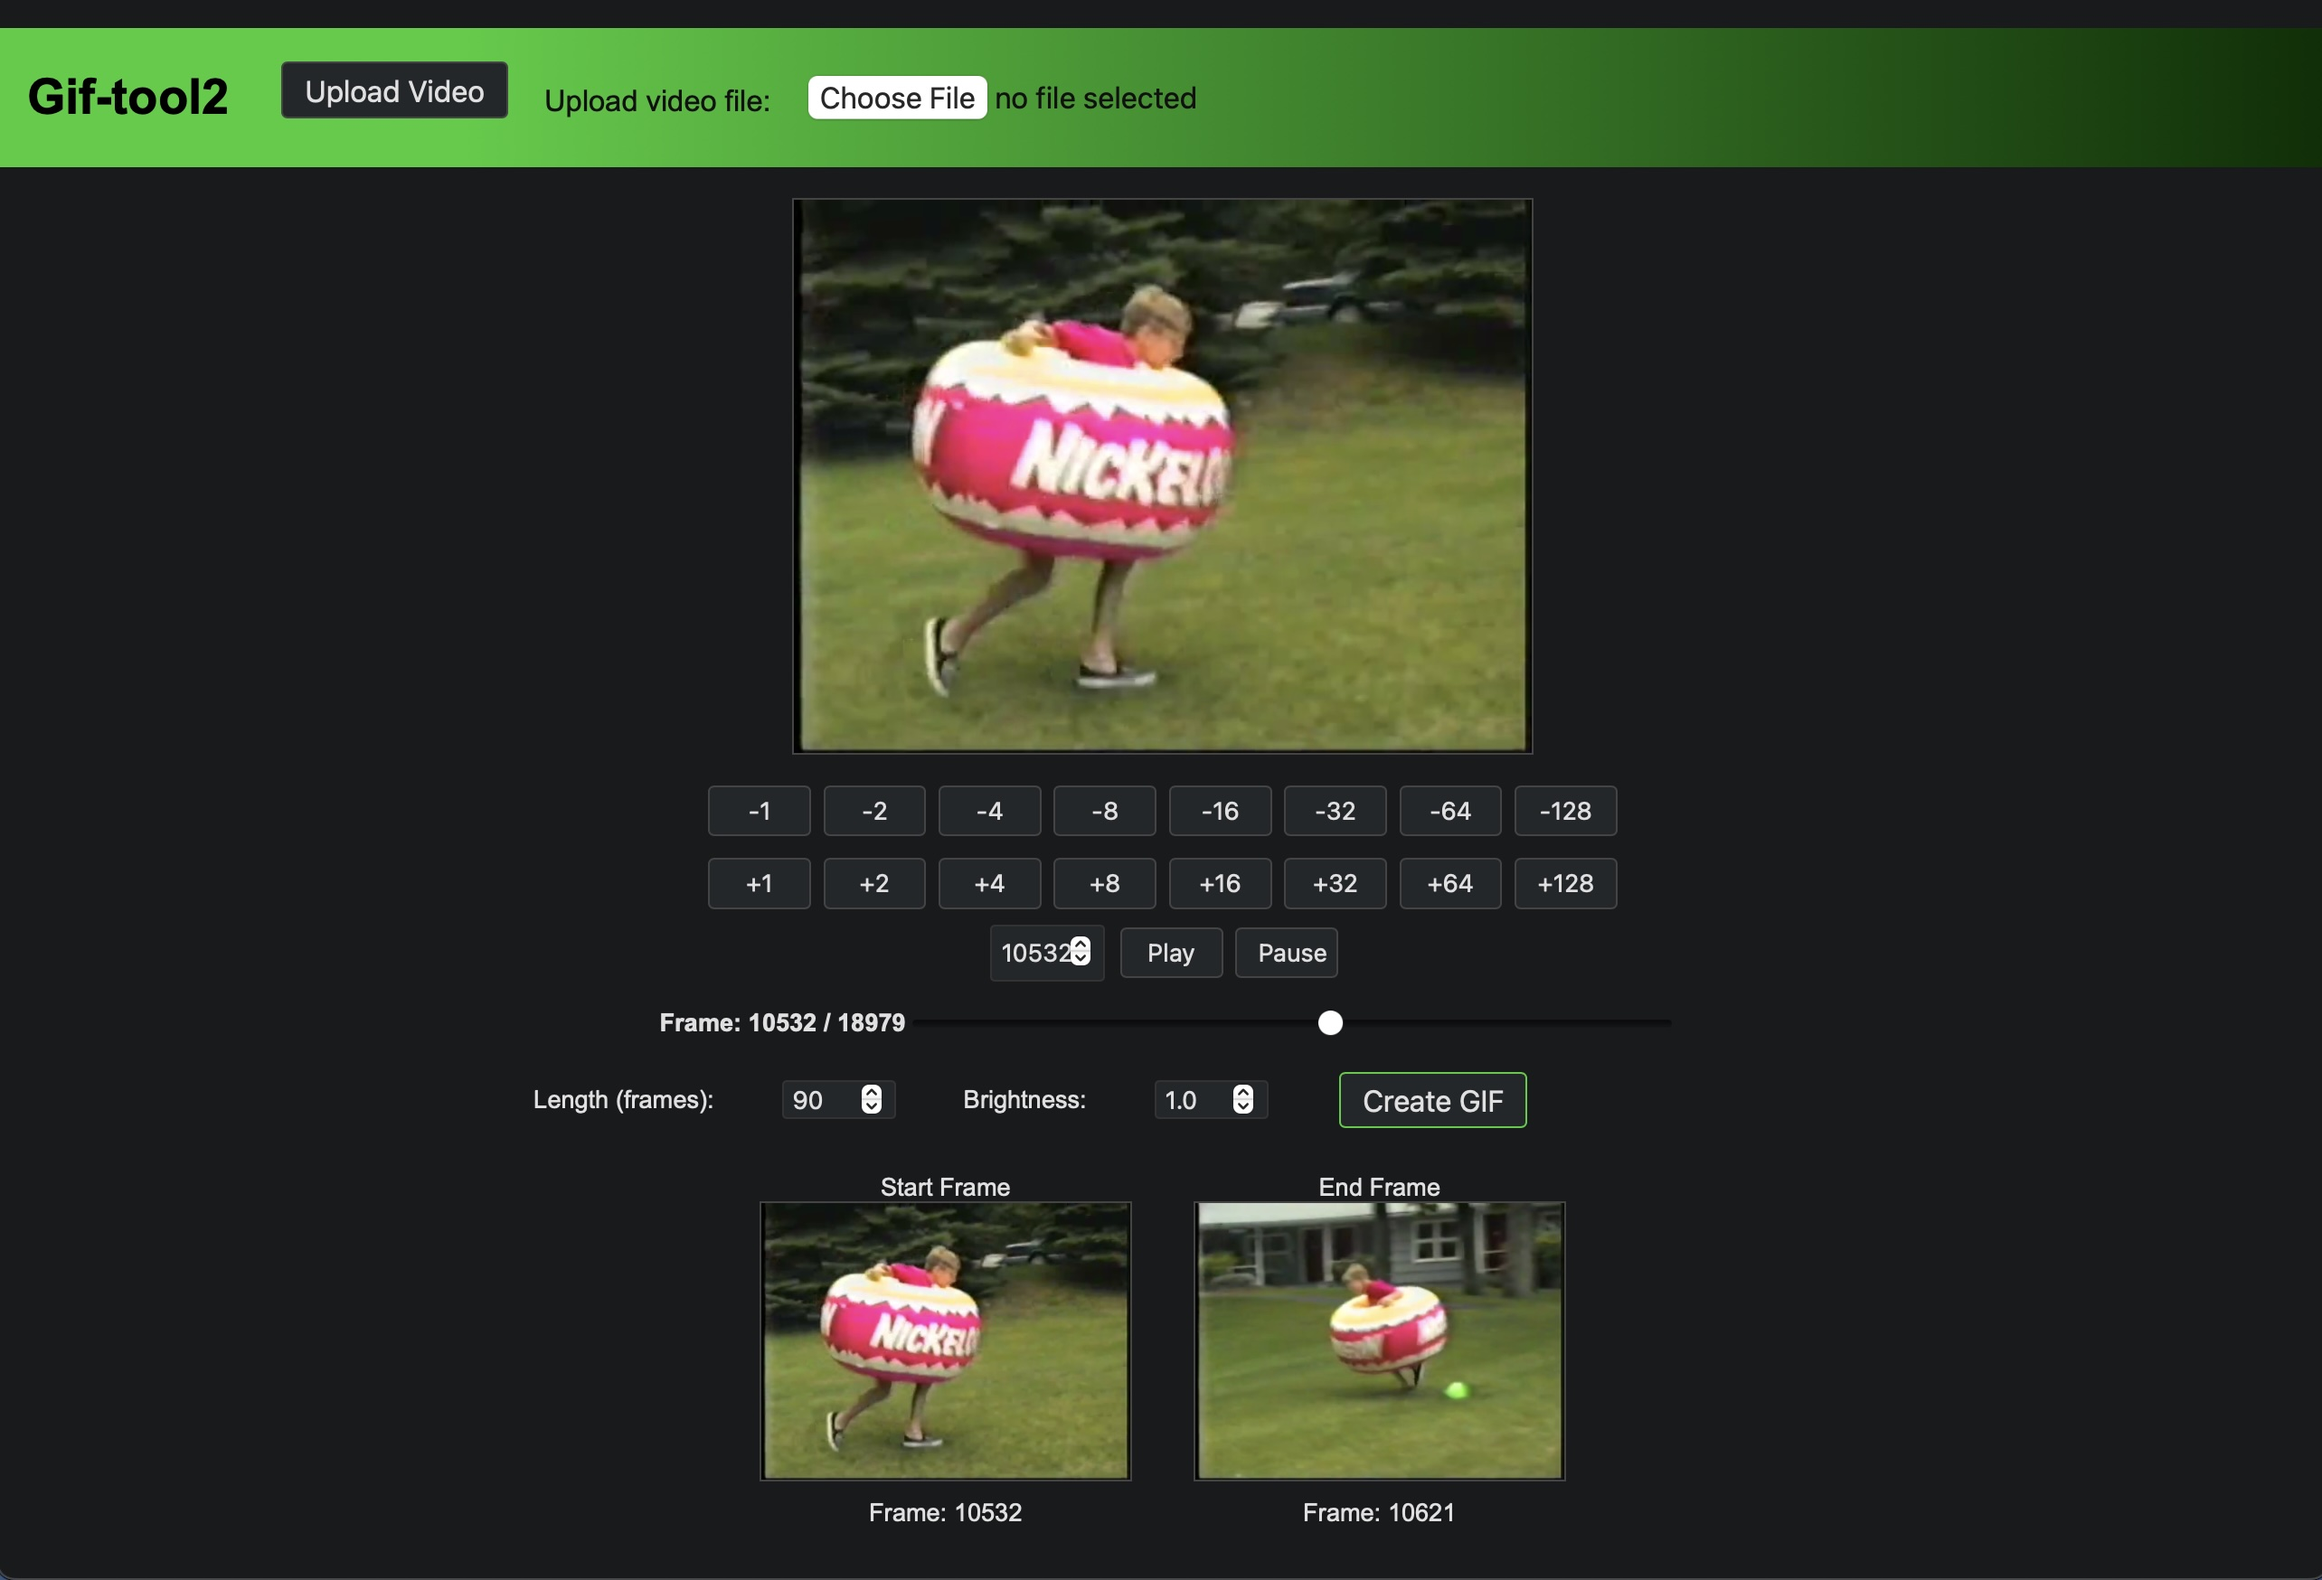
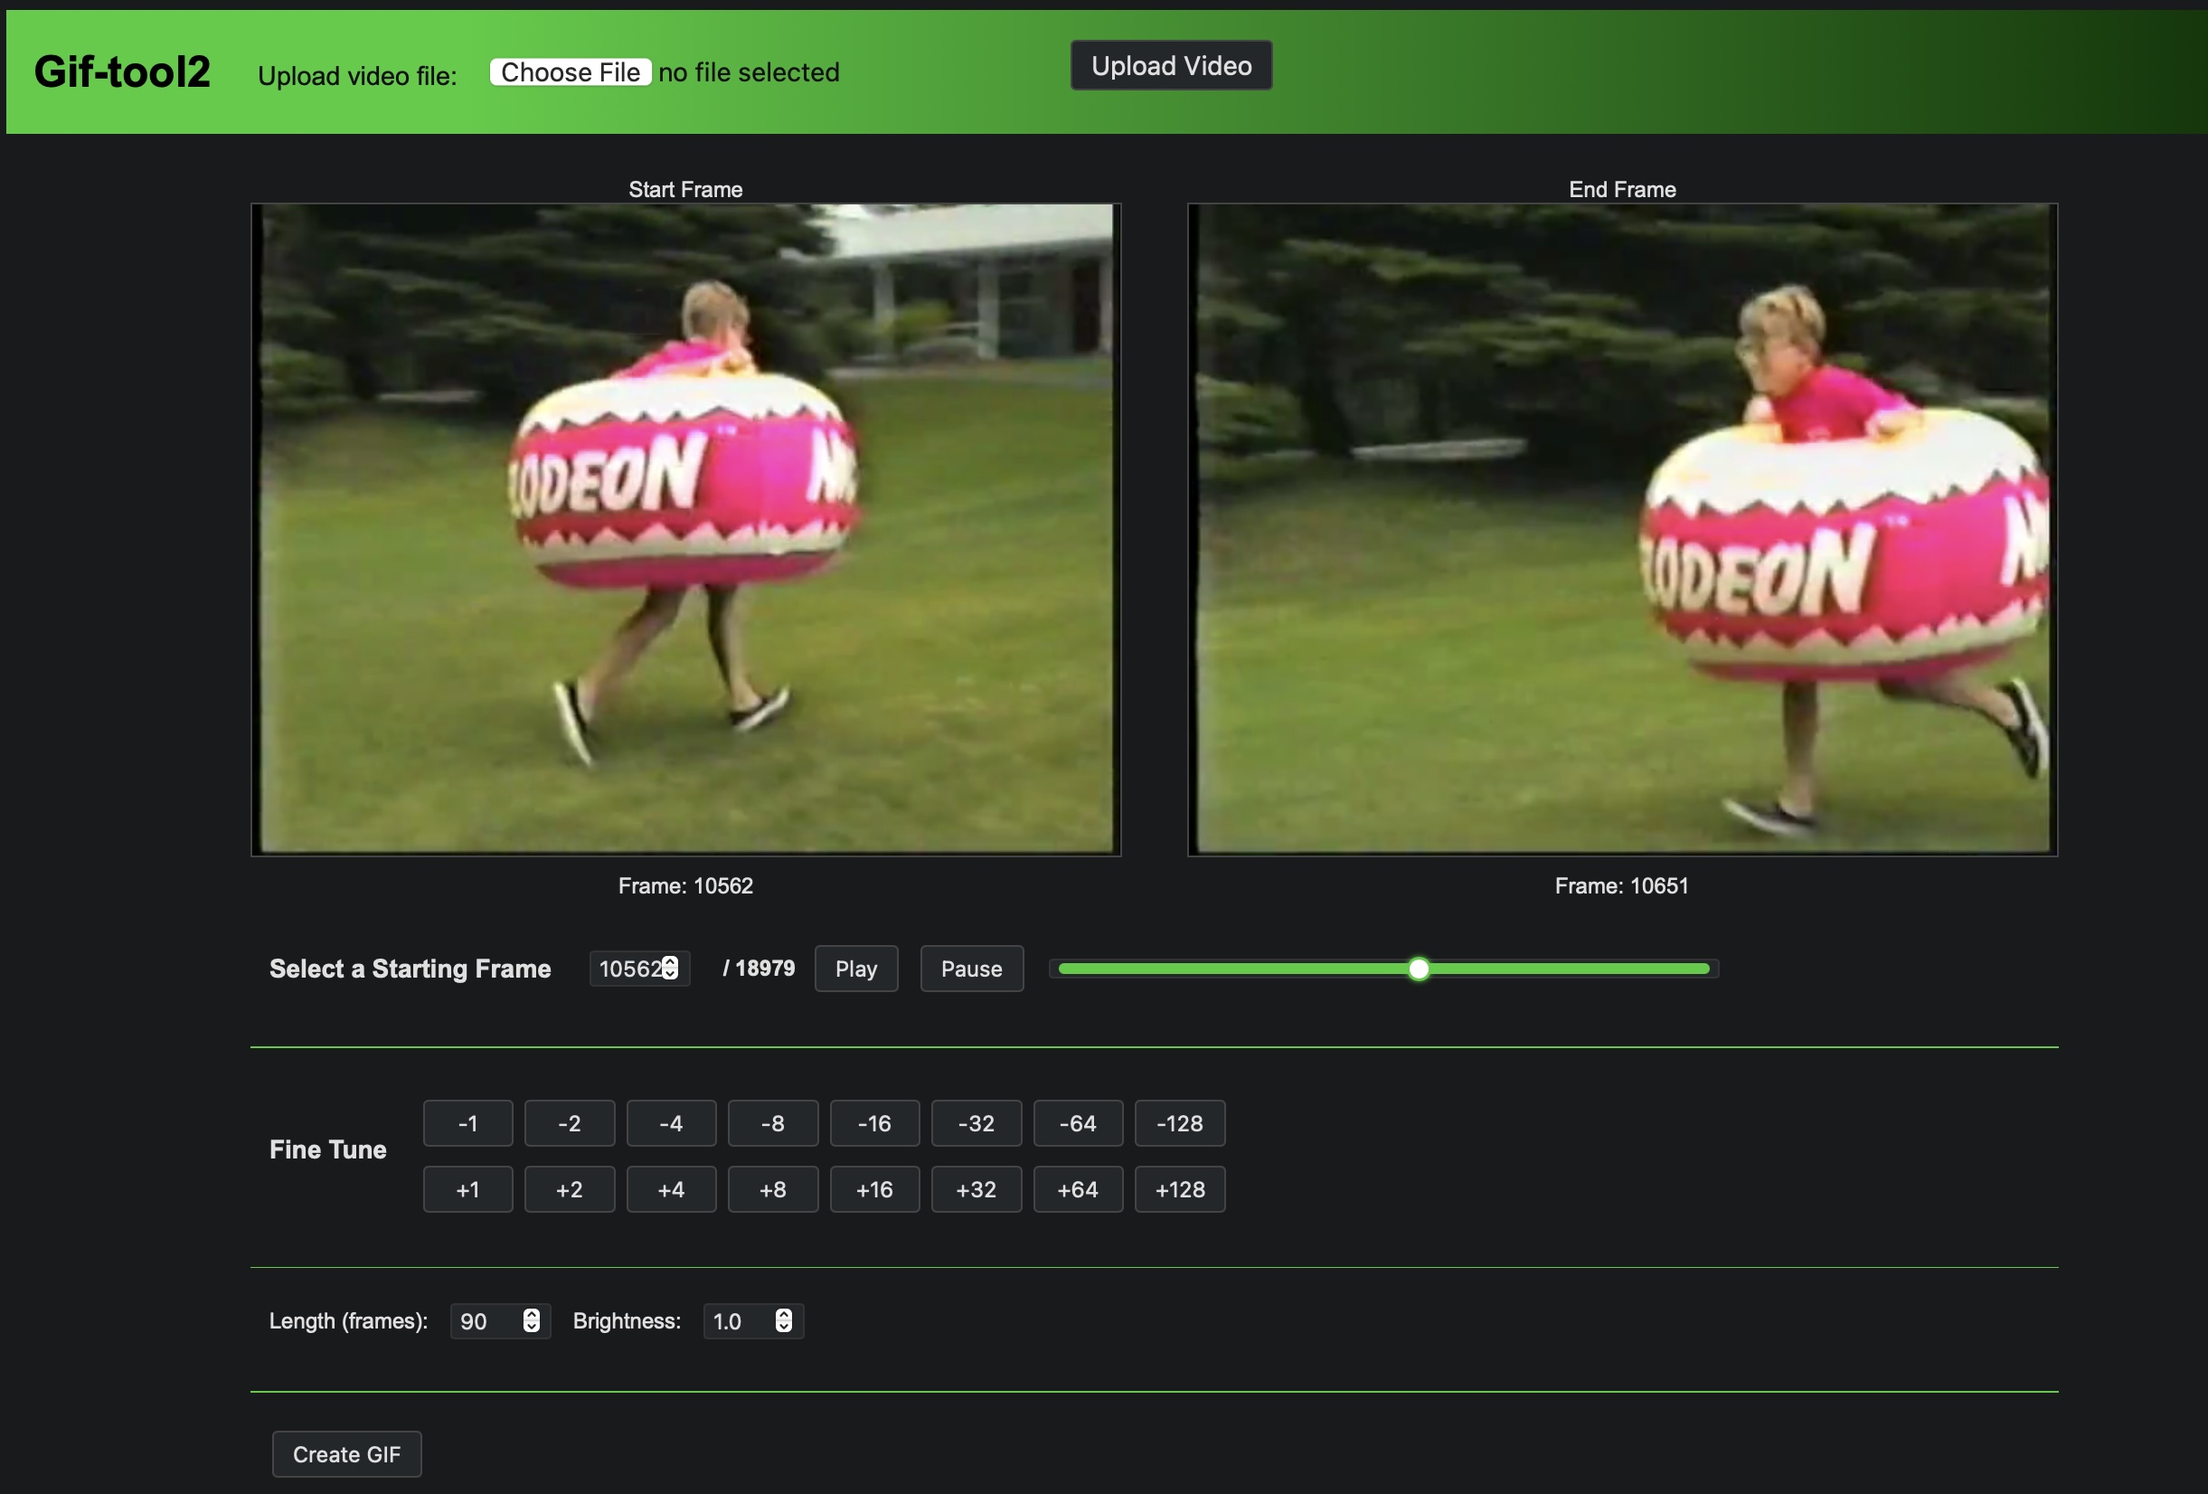
Refactor frame handling in app.js and update index.html layout for improved user interaction

diff --git a/src/giftool2/templates/index.html b/src/giftool2/templates/index.html
@@ -10,65 +10,78 @@
         <h1>Gif-tool2</h1>
         <form id="uploadForm" method="post" enctype="multipart/form-data" action="/upload_video"
             style="margin-bottom:20px;">
-            <button type="submit">Upload Video</button>
             <label for="videoFile">Upload video file:</label>
             <input type="file" id="videoFile" name="videoFile" accept="video/*" required />
+            <button type="submit">Upload Video</button>
         </form>
     </div>
 </nav>
 
 <body>
     <div class="main-container">
-        <img id="frame" width="480" style="display:block;" />
-        <div class="button-row">
-            <button onclick="seek(-1)">-1</button>
-            <button onclick="seek(-2)">-2</button>
-            <button onclick="seek(-4)">-4</button>
-            <button onclick="seek(-8)">-8</button>
-            <button onclick="seek(-16)">-16</button>
-            <button onclick="seek(-32)">-32</button>
-            <button onclick="seek(-64)">-64</button>
-            <button onclick="seek(-128)">-128</button>
-        </div>
-        <div class="button-row">
-            <button onclick="seek(1)">+1</button>
-            <button onclick="seek(2)">+2</button>
-            <button onclick="seek(4)">+4</button>
-            <button onclick="seek(8)">+8</button>
-            <button onclick="seek(16)">+16</button>
-            <button onclick="seek(32)">+32</button>
-            <button onclick="seek(64)">+64</button>
-            <button onclick="seek(128)">+128</button>
-        </div>
-        <div class="button-row" style="margin-top:8px;">
-            <input type="number" id="frameInput" value="0" step="1" min="0" style="width:60px;" onchange="setFrame()" />
-            <button id="playBtn" onclick="playFrames(); return false;">Play</button>
-            <button id="pauseBtn" onclick="pauseFrames(); return false;">Pause</button>
-        </div>
-        <div class="range-row">
-            <span id="frameLabel"></span>
-            <input type="range" id="frameSlider" min="0" max="0" value="0" step="1" style="width:480px;"
-                onchange="sliderSeek()" />
-        </div>
-        <div class="gif-row">
-            <span>Length (frames):</span>
-            <input type="number" id="gifLength" value="90" min="1" step="1" style="width:60px;" />
-            <span>Brightness:</span>
-            <input type="number" id="brightnessInput" value="1.0" min="0.5" max="1.5" step="0.05" style="width:60px;" />
-            <button onclick="createGif()">Create GIF</button>
-            <span id="gifStatus"></span>
-        </div>
-        <div class="gif-row" style="margin-top:28px;">
+        <div class="frame-row">
             <div style="text-align:center;">
                 <div>Start Frame</div>
-                <img id="startFrameImg" width="240" />
+                <img id="startFrameImg" width="640" />
                 <div id="startFrameLabel"></div>
             </div>
             <div style="text-align:center;">
                 <div>End Frame</div>
-                <img id="endFrameImg" width="240" />
+                <img id="endFrameImg" width="640" />
                 <div id="endFrameLabel"></div>
             </div>
+        </div>
+        <div class="select-frame-row">
+            <span style="display: inline-block; vertical-align: middle; margin-right: 12px;">
+                <h3 style="display: inline; margin: 0;">Select a Starting Frame</h3>
+            </span>
+            <input type="number" id="frameInput" value="0" step="1" min="0" style="width:60px" onchange="setFrame()" />
+            <span id="frameLabel"></span>
+            <button id="playBtn" onclick="playFrames(); return false;">Play</button>
+            <button id="pauseBtn" onclick="pauseFrames(); return false;">Pause</button>
+            <input type="range" id="frameSlider" min="0" max="0" value="0" step="1" style="width:480px;"
+                onchange="sliderSeek()" />
+        </div>
+        <span class="line-break"></span>
+        <div class=" fine-tune-controls-row" style="display: flex; align-items: center; gap: 24px;">
+            <span style="display: inline-block; vertical-align: middle;">
+                <h3 style="display: inline; margin: 0;">Fine Tune</h3>
+            </span>
+            <div>
+                <div class="button-row" style="margin-bottom: 4px;">
+                    <button onclick="seek(-1)">-1</button>
+                    <button onclick="seek(-2)">-2</button>
+                    <button onclick="seek(-4)">-4</button>
+                    <button onclick="seek(-8)">-8</button>
+                    <button onclick="seek(-16)">-16</button>
+                    <button onclick="seek(-32)">-32</button>
+                    <button onclick="seek(-64)">-64</button>
+                    <button onclick="seek(-128)">-128</button>
+                </div>
+                <div class="button-row">
+                    <button onclick="seek(1)">+1</button>
+                    <button onclick="seek(2)">+2</button>
+                    <button onclick="seek(4)">+4</button>
+                    <button onclick="seek(8)">+8</button>
+                    <button onclick="seek(16)">+16</button>
+                    <button onclick="seek(32)">+32</button>
+                    <button onclick="seek(64)">+64</button>
+                    <button onclick="seek(128)">+128</button>
+                </div>
+            </div>
+        </div>
+        <span class="line-break"></span>
+        <div class="extra-controls-row">
+            <span>Length (frames):</span>
+            <input type="number" id="gifLength" value="90" min="1" step="1" style="width:60px;" />
+            <span>Brightness:</span>
+            <input type="number" id="brightnessInput" value="1.0" min="0.5" max="1.5" step="0.05" style="width:60px;" />
+        </div>
+        <span class="line-break"></span>
+
+        <div class="gif-creation-row">
+            <button onclick="createGif()">Create GIF</button>
+            <span id="gifStatus"></span>
         </div>
     </div>
     <script src="/static/app.js"></script>

diff --git a/src/giftool2/static/style.css b/src/giftool2/static/style.css
@@ -9,6 +9,7 @@ body {
     flex-direction: column;
     align-items: center;
     justify-content: flex-start;
+    width: fit-content;
 }
 
 nav {
@@ -26,7 +27,6 @@ nav .nav-container {
     display: flex;
     flex-direction: row;
     align-items: center;
-    /* justify-content: space-between; */
     width: 100%;
     gap: 24px;
 }
@@ -46,38 +46,118 @@ nav button {
 .main-container {
     display: flex;
     flex-direction: column;
-    align-items: center;
-    width: 100%;
 }
 
+.select-frame-row,
+.fine-tune-controls-row,
+.extra-controls-row,
+.gif-creation-row {
+    display: flex;
+    align-items: center;
+    gap: 12px;
+    width: fit-content;
+    margin-bottom: 12px;
+    justify-content: flex-start;
+    /* border: 1px solid limegreen; */
+    padding: 14px;
+}
+
+.line-break {
+    width: 100%;
+    height: 1px;
+    background: limegreen;
+    margin: 12px 0;
+}
+
+/* }
+.select-frame-row {
+    display: flex;
+    align-items: center;
+    gap: 12px;
+    width: fit-content;
+    margin-bottom: 12px;
+    justify-content: flex-start;
+    border: 1px solid limegreen;
+    padding: 8px;
+}
+.select-frame-row {
+    display: flex;
+    align-items: center;
+    gap: 12px;
+    width: fit-content;
+    margin-bottom: 12px;
+    justify-content: flex-start;
+    border: 1px solid limegreen;
+    padding: 8px;
+}
+
+.fine-tune-controls-row {
+    display: flex;
+    align-items: center;
+    gap: 24px;
+    width: fit-content;
+    margin-bottom: 12px;
+    justify-content: flex-start;
+    border: 1px solid limegreen;
+    padding: 8px;
+}
+
+.extra-controls-row {
+    display: flex;
+    align-items: center;
+    gap: 18px;
+    width: fit-content;
+
+    margin-bottom: 12px;
+    justify-content: flex-start;
+    border: 1px solid limegreen;
+    padding: 8px;
+}
+
+.gif-creation-row {
+    display: flex;
+    align-items: center;
+    gap: 18px;
+    width: 100%;
+    margin-bottom: 12px;
+    justify-content: flex-start;
+    border: 1px solid limegreen;
+    padding: 8px;
+} */
 
 .button-row {
     display: flex;
     flex-direction: row;
     flex-wrap: wrap;
     gap: 4px;
-    justify-content: center;
+    justify-content: flex-start;
     margin: 10px 0 0 0;
-    width: 100%;
-}
-
-.range-row {
-    display: flex;
-    flex-direction: row;
-    align-items: center;
-    justify-content: center;
-    margin: 16px 0 0 0;
+    width: fit-content;
 }
 
 .gif-row {
     display: flex;
     flex-direction: row;
     align-items: center;
-    justify-content: center;
+    justify-content: flex-start;
     margin: 18px 0 0 0;
     gap: 40px;
 }
 
+.frame-row {
+    display: flex;
+    flex-direction: row;
+    justify-content: center;
+    align-items: flex-end;
+    gap: 48px;
+    margin-bottom: 18px;
+    margin-top: 12px;
+}
+
+.range-row {
+    /* Remove old left-justify, now handled by select-frame-row */
+    display: none;
+}
 
 button {
     margin: 2px 2px;
@@ -111,6 +191,73 @@ input[type="range"] {
     color: #e0e0e0;
 }
 
+input[type="range"] {
+    width: 480px;
+    height: 8px;
+    appearance: none;
+    -webkit-appearance: none;
+    outline: none;
+}
+
+input[type="range"]::-webkit-slider-runnable-track {
+    height: 8px;
+    background: limegreen;
+    border-radius: 4px;
+}
+
+input[type="range"]::-webkit-slider-thumb {
+    -webkit-appearance: none;
+    appearance: none;
+    width: 18px;
+    height: 18px;
+    border-radius: 50%;
+    background: #fff;
+    border: 2px solid limegreen;
+    box-shadow: 0 0 4px limegreen;
+    cursor: pointer;
+    margin-top: -5px;
+}
+
+input[type="range"]:focus::-webkit-slider-thumb {
+    box-shadow: 0 0 0 4px rgba(50, 255, 50, 0.3);
+}
+
+input[type="range"]::-moz-range-thumb {
+    width: 18px;
+    height: 18px;
+    border-radius: 50%;
+    background: #fff;
+    border: 2px solid limegreen;
+    box-shadow: 0 0 4px limegreen;
+    cursor: pointer;
+}
+
+input[type="range"]::-ms-thumb {
+    width: 18px;
+    height: 18px;
+    border-radius: 50%;
+    background: #fff;
+    border: 2px solid limegreen;
+    box-shadow: 0 0 4px limegreen;
+    cursor: pointer;
+}
+
+input[type="range"]::-moz-range-track {
+    height: 8px;
+    background: limegreen;
+    border-radius: 4px;
+}
+
+input[type="range"]::-ms-fill-lower,
+input[type="range"]::-ms-fill-upper {
+    background: limegreen;
+    border-radius: 4px;
+}
+
+input[type="range"]:focus {
+    outline: none;
+}
+
 #uploadForm {
     margin: 10px;
     display: flex;
@@ -119,7 +266,6 @@ input[type="range"] {
     color: #111;
     font-size: 1.2em;
 }
-
 
 #uploadForm label,
 #uploadForm input[type="file"] {
@@ -145,7 +291,6 @@ input[type="range"] {
 #frameCountLabel {
     font-weight: bold;
     margin-left: 8px;
-
 }
 
 .gif-row button {

diff --git a/src/giftool2/static/app.js b/src/giftool2/static/app.js
@@ -16,22 +16,23 @@ let frameCount = 0;
 let playInterval = null;
 
 function updateFrame() {
-    document.getElementById('frame').src = '/frame?i=' + frame + '&_=' + Date.now();
+    // Update the main preview (now startFrameImg)
+    document.getElementById('startFrameImg').src = '/frame?i=' + frame + '&_=' + Date.now();
     document.getElementById('frameInput').value = frame;
     document.getElementById('frameSlider').value = frame;
-    document.getElementById('frameLabel').innerText = 'Frame: ' + frame + ' / ' + (frameCount - 1);
-    updateStartEndFrames();
+    document.getElementById('frameLabel').innerText = ' / ' + (frameCount - 1);
+    updateEndFrame();
 }
-function updateStartEndFrames() {
+
+function updateEndFrame() {
     let lengthVal = parseInt(document.getElementById('gifLength').value);
     if (isNaN(lengthVal) || lengthVal <= 0) lengthVal = 90;
-    let startFrame = frame;
     let endFrame = Math.min(frame + lengthVal - 1, frameCount - 1);
-    document.getElementById('startFrameImg').src = '/frame?i=' + startFrame + '&_=' + Date.now();
     document.getElementById('endFrameImg').src = '/frame?i=' + endFrame + '&_=' + Date.now();
-    document.getElementById('startFrameLabel').innerText = 'Frame: ' + startFrame;
+    document.getElementById('startFrameLabel').innerText = 'Frame: ' + frame;
     document.getElementById('endFrameLabel').innerText = 'Frame: ' + endFrame;
 }
+
 function seek(df) {
     frame = Math.max(0, Math.min(frameCount - 1, frame + df));
     updateFrame();
@@ -93,5 +94,5 @@ function pauseFrames() {
         playInterval = null;
     }
 }
-document.getElementById('gifLength').addEventListener('input', updateStartEndFrames);
+document.getElementById('gifLength').addEventListener('input', updateEndFrame);
 getVideoInfo().then(updateFrame);
